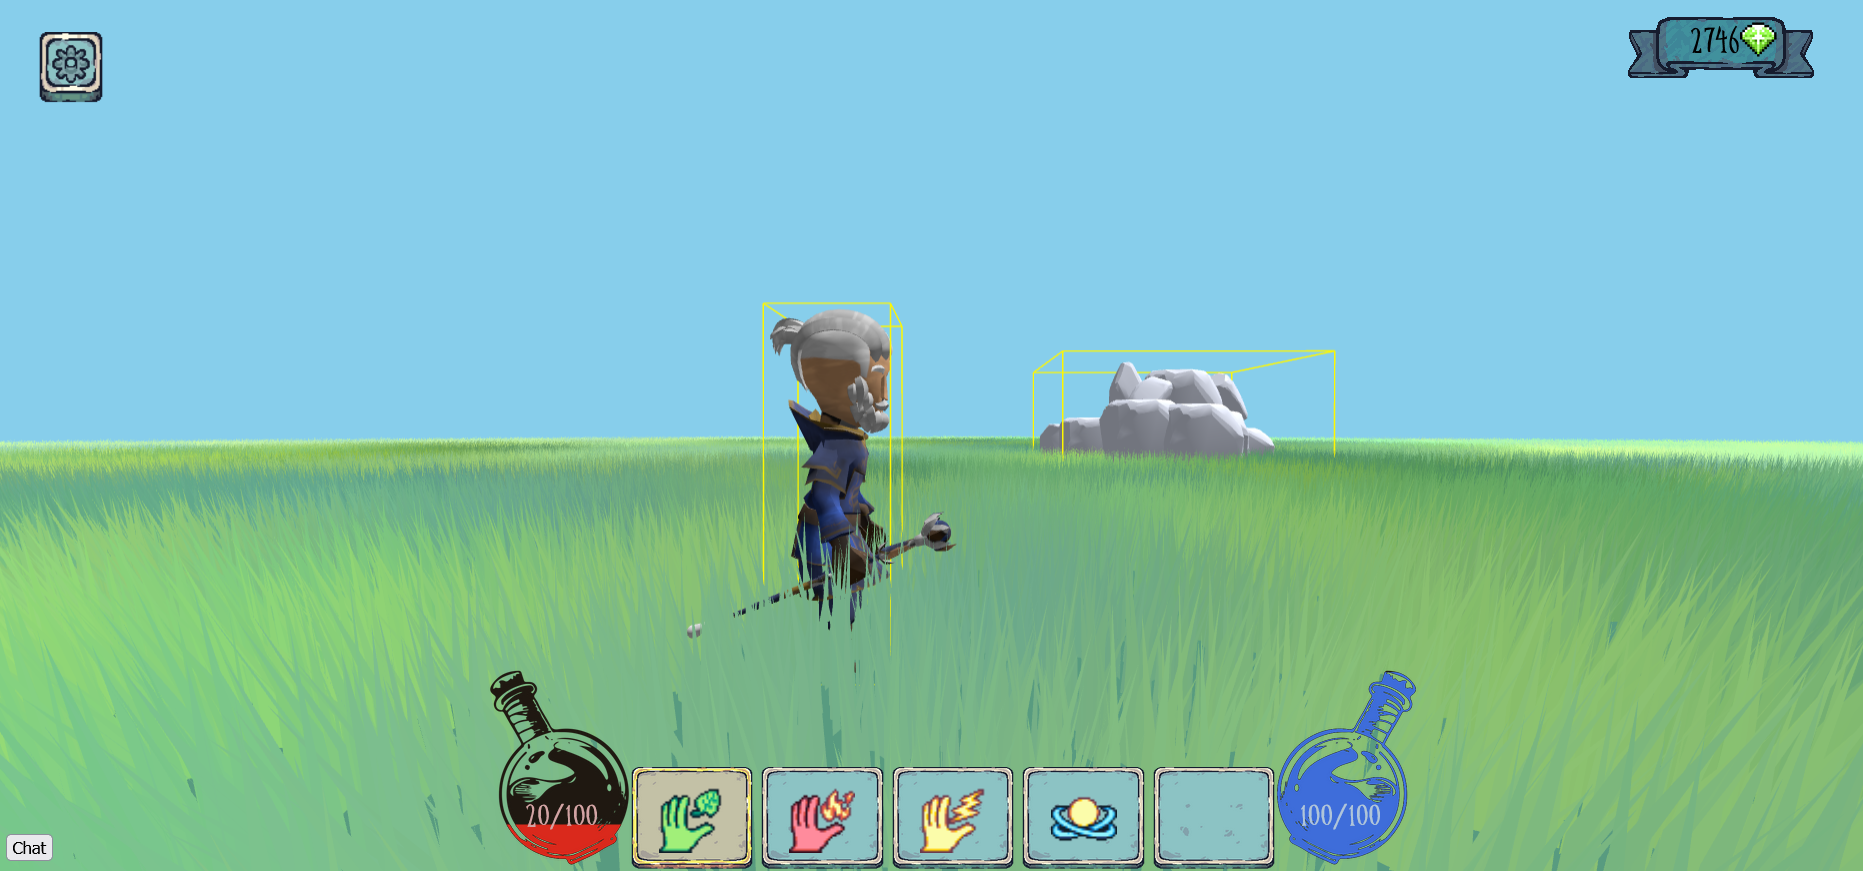
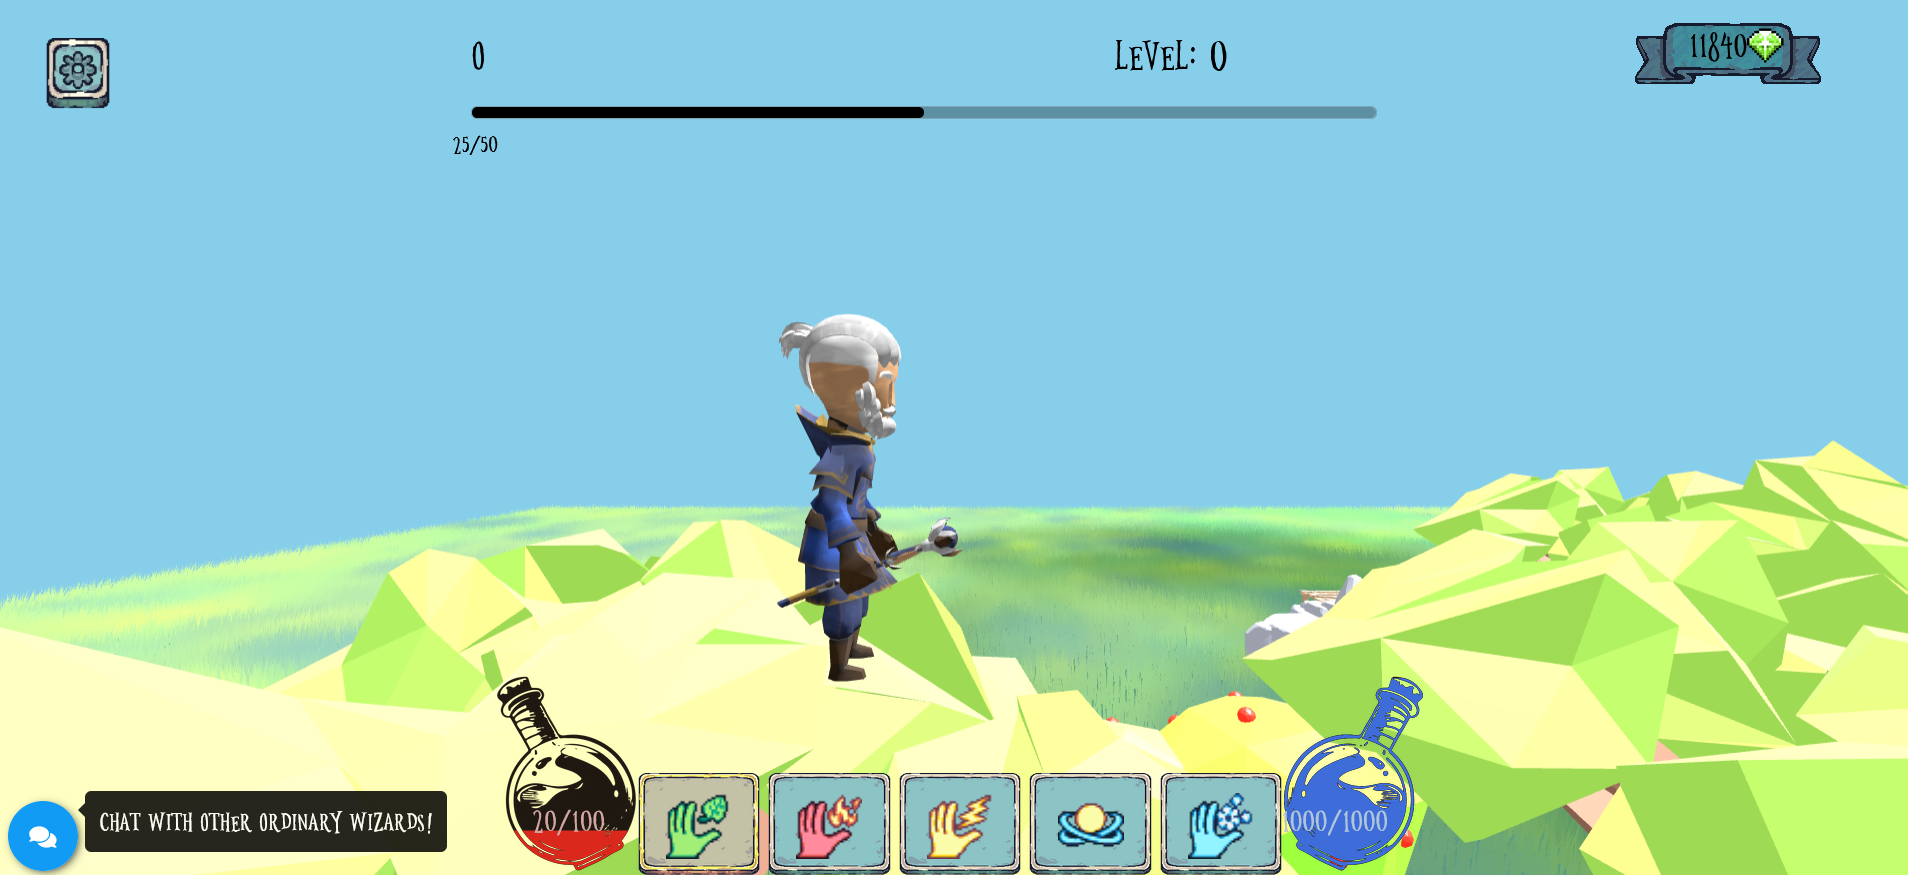
Fix docs and tests

diff --git a/docs/USER_MANUAL.md b/docs/USER_MANUAL.md
@@ -40,17 +40,17 @@ Here, the player can create a new account and get a new island by filling in the
 # Login page
 ___
 
-If the player already has an account, they can log in by clicking "I have already eaten some gems" which refers to
+If the player already has an account, they can log in by clicking "I have already eaten some crystals" which refers to
 the crystals that grant magical abilities when eaten which the player already has if they have an island.
 For the login the player needs to fill in their username and password.
-There is also an option to log in with Google.
+There is also an option to log in with Google and reset the password.
 
 # Index page
 ___
 
 ![Loading Screen image](/docs/img/loading-screen.png)
 
-Level popup: After the player has gained some experience playing the game, the player can level up. When the level increases
+Level popup: After the player has gained some experience playing the game (e.g. for eating crystal or placing buildings), the player can level up. When the level increases
 the player gets a popup message saying "Level {currentLevel}". If the player clicks on "Show Features", the player
 can view the features of current Level.
 
@@ -71,6 +71,8 @@ The index page is the main page of the game. It contains the following elements:
 - Health bar (red potion): shows the health of the player
 - Mana bar (blue potion): shows the mana of the player
 - Inventory: shows the equipped spells
+- Username: shows the username of the player
+- Current level: shows the current level and the progress bar of the player
 - Game screen: shows the game
 
 ### Settings menu
@@ -83,7 +85,17 @@ some basic settings about the game, such as audio, graphics and controls.
 By clicking on the bottom left icon, the player can open the chat. The chat is a global chat where every
 player can chat with each other. The chat is implemented with Socket.IO library.
 
+### Cheats
+
+If the player has the right to use cheats, the player can open the chat menu and type the following commands:
+
+- \level(level): set the level of the player
+- \xp(xp): increase the xp of the player
+- \crystal(crystals): increase the crystals of the player
+
 ### Inventory
+
+![Spell inventory image](/docs/img/spell-inventory.png)
 
 At the bottom of the screen are 5 boxes, that all provide a space for an equipped spell. The first spell cant be changed and 
 will always be the build spell, with which the player can build buildings on his island. The other 4 equipped spells can be changed
@@ -94,6 +106,8 @@ highlighting of the selected spell slot. Each individual spell has a unique icon
 ___
 
 ## Basic player movements
+
+![Player sprinting forward image](/docs/img/sprint-forward.png)
 
 The player can move around the game using the following keys (can be changes in the settings menu):
 
@@ -113,7 +127,9 @@ The player can move around the game using the following keys (can be changes in 
 
 ## Collision detection
 
-TODO: Flynn
+![Collision detection animation](/docs/gif/collision-detection.gif)
+
+The player can't walk through buildings or other objects. For the current implementation we use raycasting to detect collisions.
 
 # In-game menus
 ___
@@ -125,6 +141,8 @@ Opening a menu is done by default by pressing the `E` key when the player is
 aiming at the building.
 
 ### Altar menu
+
+![Altar menu image](/docs/img/altar-menu.png)
 
 In the altar menu the player can configure their inventory and equip spells.
 They can also select stakes to start a multiplayer battle.
@@ -147,15 +165,25 @@ This will take some time.
 
 The tower is used for combat and displays its health and damage.
 
-# Spells
-___
-
-TODO: Flynn
-
 # Eating
 ___
 
 By eating, the player will consume crystals in exchange for mana, health and experience.
+
+# Spells
+___
+
+Fireball ![Fireball spell image](/docs/gif/fire-spell.gif)
+
+Thunderstorm ![Thunderstorm spell image](/docs/gif/thunder-spell.gif)
+
+Shield ![Shield spell image](/docs/gif/shield.gif)
+
+Ice wall ![Ice wall spell image](/docs/gif/ice-wall-spell.gif)
+
+Each spell has own cooldown period and mana cost. The player can cast a spell by pressing the left mouse button.
+
+The first spell is the build spell, which is used to build buildings on the island.
 
 # Building system
 ___
@@ -191,6 +219,8 @@ upgrade buildings.
 ___
 
 ## Asset caching
+
+![Asset caching image](/docs/img/index-db.png)
 
 When player logs in for the first time certain 3D-models and images are stored in cache. This makes the process of loading 
 assets faster every time the player opens the game. To store the models we use IndexedDB.

diff --git a/test-cases/tests/SPELL-012.md b/test-cases/tests/SPELL-012.md
@@ -1,0 +1,37 @@
+# Spell Casting Test Cases
+
+## Test Case 12: Spell Casting Functionality Test
+
+- **Test Case ID:** SPELL-012
+- **Test Case Description:** Verify that players can cast spells, including Fireball, Thunderstorm, Shield, and Ice Wall, by pressing the left mouse button. Each spell should have its own cooldown period and mana cost.
+- **Preconditions:** 
+  - The game is accessible and functional.
+  - The player character is positioned in the game environment.
+- **Test Steps:** 
+  1. Access Spell Casting Mechanism:
+     - Ensure that the spell casting mechanism is accessible to the player.
+  2. Verify Spell Cooldown and Mana Cost:
+     a. Check the cooldown period and mana cost for each spell:
+        - Fireball
+        - Thunderstorm
+        - Shield
+        - Ice Wall
+  3. Cast Spells:
+     a. Attempt to cast each spell by pressing the left mouse button.
+     b. Verify that the spells are cast successfully without errors.
+  4. Observe Cooldown:
+     - Monitor the cooldown period for each spell after casting.
+     - Ensure that the player cannot cast a spell again until its cooldown period has elapsed.
+  5. Manage Mana:
+     - Verify that the player's mana is appropriately deducted after casting each spell.
+     - Ensure that the player cannot cast a spell if they do not have sufficient mana.
+- **Expected Results:** 
+  - Players should be able to cast spells, including Fireball, Thunderstorm, Shield, and Ice Wall, by pressing the left mouse button.
+  - Each spell should have its own cooldown period and mana cost, which are accurately reflected in the game.
+  - Spells should be cast successfully without errors, and cooldown periods should be observed before casting the same spell again.
+  - The player's mana should be appropriately deducted after casting each spell, and they should not be able to cast spells if they do not have sufficient mana.
+- **Postconditions:** 
+  - The player should have successfully cast spells in the game environment, managing cooldown periods and mana costs effectively.
+- **Notes:** 
+  - Test the functionality with different combinations of spells to ensure that each spell behaves as expected.
+  - Ensure that appropriate feedback is provided to the player regarding spell cooldowns, mana costs, and casting success.

diff --git a/test-cases/tests/LOAD-009.md b/test-cases/tests/LOAD-009.md
@@ -1,0 +1,32 @@
+# Loading Screen and Redirection Test Cases
+
+## Test Case 9: Loading Screen and Redirection Test
+
+- **Test Case ID:** LOAD-009
+- **Test Case Description:** Verify that after logging in, the player is redirected to the index page where a loading screen is displayed. The loading screen should consist of a progress bar showing the amount of the game that is loaded, text indicating what part of the game is being loaded, and an animation of a wizard casting a spell for visual appeal. Once the loading is complete, the player should be redirected to the game.
+- **Preconditions:** 
+  - The game login process is accessible and functional.
+- **Test Steps:** 
+  1. Login:
+     - Log in to the game with valid credentials.
+  2. Verify Redirection:
+     - Ensure that after logging in, the player is redirected to the index page.
+  3. Verify Loading Screen:
+     - Check that a loading screen is displayed upon redirection to the index page.
+     - Verify that the loading screen contains a progress bar showing the amount of the game loaded.
+     - Ensure that text is displayed indicating what part of the game is being loaded.
+     - Confirm that an animation of a wizard casting a spell is present for visual appeal.
+  4. Wait for Loading Completion:
+     - Monitor the loading progress until it reaches 100%.
+  5. Verify Redirection to Game:
+     - Once the loading is complete, ensure that the player is automatically redirected to the game.
+- **Expected Results:** 
+  - After logging in, the player should be redirected to the index page where a loading screen is displayed.
+  - The loading screen should include a progress bar, text indicating loading progress, and a wizard animation.
+  - Once the loading is complete, the player should be redirected to the game automatically.
+- **Postconditions:** 
+  - The player should have successfully logged in and been redirected to the game after the loading process is complete.
+- **Notes:** 
+  - Test the loading process with different network speeds and ensure that the loading screen functions smoothly.
+  - Verify that the loading progress accurately reflects the loading status of the game assets.
+  - Ensure that the redirection to the game occurs seamlessly after the loading is complete.

diff --git a/test-cases/tests/LEVEL-008.md b/test-cases/tests/LEVEL-008.md
@@ -1,0 +1,29 @@
+# Level Up Feature Test Cases
+
+## Test Case 8: Level Up Popup Display Test
+
+- **Test Case ID:** LEVEL-008
+- **Test Case Description:** Verify that when the player gains experience playing the game (e.g., by eating crystals or placing buildings), the player can level up, and a popup message displaying the current level appears. Additionally, verify that the player can view the features of the current level by clicking on "Show Features".
+- **Preconditions:** 
+  - The game is accessible and functional.
+  - The player has been gaining experience through gameplay.
+- **Test Steps:** 
+  1. Gain Experience:
+     - Perform actions in the game that contribute to gaining experience, such as eating crystals or placing buildings.
+  2. Level Up:
+     - Once the player's experience reaches the required threshold for leveling up, verify that the player's level increases.
+  3. Verify Popup Message:
+     - Check that a popup message appears displaying the current level (e.g., "Level 2") after the player levels up.
+  4. Click on "Show Features":
+     - Click on the "Show Features" button within the popup message.
+  5. Verify Feature Display:
+     - Ensure that the features of the current level are displayed to the player after clicking on "Show Features".
+- **Expected Results:** 
+  - After gaining experience and leveling up, a popup message should appear indicating the player's current level.
+  - The player should be able to view the features of the current level by clicking on "Show Features" within the popup message.
+- **Postconditions:** 
+  - The player should have successfully received and interacted with the level up popup message, gaining insight into the features of the current level.
+- **Notes:** 
+  - Test the functionality with different actions that contribute to gaining experience to ensure the level up mechanism works correctly.
+  - Ensure that the level up popup message is displayed prominently and is easily dismissible.
+  - Verify that clicking on "Show Features" accurately displays the features of the current level to the player.

diff --git a/test-cases/tests/CACHE-007.md b/test-cases/tests/CACHE-007.md
@@ -1,0 +1,30 @@
+# Asset Caching Test Cases
+
+## Test Case 7: Asset Caching on First Loading Test
+
+- **Test Case ID:** CACHE-007
+- **Test Case Description:** Verify that when a player logs in for the first time, certain 3D models and images are stored in the cache using IndexedDB, improving asset loading speed for subsequent game sessions.
+- **Preconditions:** 
+  - The game is accessible and functional.
+  - The player is logging in for the first time on the device or cleared the cache.
+- **Test Steps:** 
+  1. First Time Login:
+     - Log in to the game with a new player account.
+  2. Monitor Cache Population:
+     - Verify that certain 3D models and images are being stored in the cache using IndexedDB.
+     - Check the cache size and confirm that it increases after the first login.
+  3. Verify Asset Loading Speed:
+     - Log out of the game and close the application.
+     - Log in again with the same player account.
+     - Observe the loading speed of assets such as 3D models and images.
+     - Compare the loading speed with and without cached assets.
+- **Expected Results:** 
+  - When a player logs in for the first time, certain 3D models and images should be stored in the cache using IndexedDB.
+  - The cache size should increase after the first login.
+  - Subsequent logins should demonstrate improved asset loading speed due to cached assets.
+- **Postconditions:** 
+  - The player should experience faster asset loading times in subsequent game sessions after the first login.
+- **Notes:** 
+  - Verify that the correct 3D models and images are being cached and retrieved from IndexedDB.
+  - Test the functionality with different types and sizes of assets to ensure effective caching.
+  - Ensure that the caching process does not significantly impact the overall performance or stability of the game.

diff --git a/test-cases/tests/RESET-011.md b/test-cases/tests/RESET-011.md
@@ -1,0 +1,29 @@
+# Password Reset Test Cases
+
+## Test Case 11: Password Reset Functionality Test
+
+- **Test Case ID:** RESET-011
+- **Test Case Description:** Verify that users can reset their password by providing their username and a new password.
+- **Preconditions:** 
+  - The password reset feature is accessible and functional.
+- **Test Steps:** 
+  1. Access Password Reset Form:
+     - Navigate to the password reset page or form.
+  2. Enter Username and New Password:
+     - Input the user's username into the appropriate field.
+     - Enter a new password into the corresponding field.
+  3. Submit Form:
+     - Click on the "Reset Password" or similar button to submit the form.
+  4. Verify Password Reset:
+     - Ensure that the password is successfully reset for the provided username with the new password.
+     - Attempt to login using the new password to confirm successful password reset.
+- **Expected Results:** 
+  - Users should be able to reset their password by providing their username and a new password.
+  - After submitting the password reset form, the password for the provided username should be updated with the new password.
+  - Users should be able to login using the new password after the password reset process is completed.
+- **Postconditions:** 
+  - The user should have successfully reset their password and be able to access their account using the new password.
+- **Notes:** 
+  - Ensure that the password reset form is secure and protects user privacy by not revealing existing passwords.
+  - Test the functionality with various usernames and new passwords to ensure robustness.
+  - Verify that appropriate error messages are displayed if the provided username is not found.

diff --git a/test-cases/tests/CHEAT-010.md b/test-cases/tests/CHEAT-010.md
@@ -1,0 +1,27 @@
+# Cheat Commands Test Cases
+
+## Test Case 10: Cheat Commands Functionality Test
+
+- **Test Case ID:** CHEAT-010
+- **Test Case Description:** Verify that if the player has the right to use cheats, they can open the chat menu and type specific commands to manipulate their level, experience points (XP), and crystals.
+- **Preconditions:** 
+  - The game is accessible and functional.
+  - The player has the right to use cheats.
+- **Test Steps:** 
+  1. Open Chat Menu:
+     - Access the chat menu within the game.
+  2. Enter Cheat Commands:
+     a. Type "\level(level)" command and specify a level to set for the player.
+     b. Type "\xp(xp)" command and specify the amount of XP to increase for the player.
+     c. Type "\crystal(crystals)" command and specify the number of crystals to increase for the player.
+  3. Verify Cheat Execution:
+     - Ensure that the specified cheat commands are executed successfully.
+     - Check that the player's level, XP, and crystals are updated accordingly.
+- **Expected Results:** 
+  - If the player has the right to use cheats, they should be able to enter specific commands in the chat menu to manipulate their level, XP, and crystals.
+  - The specified cheat commands should be executed successfully, and the player's level, XP, and crystals should be updated accordingly.
+- **Postconditions:** 
+  - The player should have successfully manipulated their level, XP, and crystals using the cheat commands available in the chat menu.
+- **Notes:** 
+  - Verify that only players with the appropriate permissions can access and use cheat commands.
+  - Test the functionality with different values for level, XP, and crystals to ensure accurate manipulation.

diff --git a/test-cases/TEST_INDEX.md b/test-cases/TEST_INDEX.md
@@ -25,3 +25,9 @@ Each manual test has the following attributes:
 - [ ] [ISL-BUILD-004](/test-cases/tests/ISL-BUILD-004.md): Island Building Functionality Test
 - [ ] [ISL-BUILD-005](/test-cases/tests/ISL-BUILD-005.md): Building Placement and Interaction Test
 - [ ] [MINE-006](/test-cases/tests/MINE-006.md): Mining Resources Test
+- [ ] [CACHE-007](/test-cases/tests/CACHE-007.md): Asset Caching on First Loading Test
+- [ ] [LEVEL-008](/test-cases/tests/LEVEL-008.md): Level Up Popup Display Test
+- [ ] [LOAD-009](/test-cases/tests/LOAD-009.md): Loading Screen and Redirection Test
+- [ ] [CHEAT-010](/test-cases/tests/CHEAT-010.md): Cheat Commands Functionality Test
+- [ ] [RESET-011](/test-cases/tests/RESET-011.md): Password Reset Functionality Test
+- [ ] [SPELL-012](/test-cases/tests/SPELL-012.md): Spell Casting Functionality Test

diff --git a/docs/DOCUMENTATION.md b/docs/DOCUMENTATION.md
@@ -12,6 +12,7 @@ In general, the documentation is divided into the following parts:
 - Frontend code documentation: see JSDoc documentation at `/jsDocs`
 - High-level user manual, with links to technical details: see [USER_MANUAL.md](/docs/USER_MANUAL.md)
 - Test cases: see [TEST_INDEX.md](/test-cases/TEST_INDEX.md)
+- Used assets: see [credits.txt](/static/credits.txt)
 
 ### Backend code documentation
 The backend code documentation is generated using PyDoc. 
